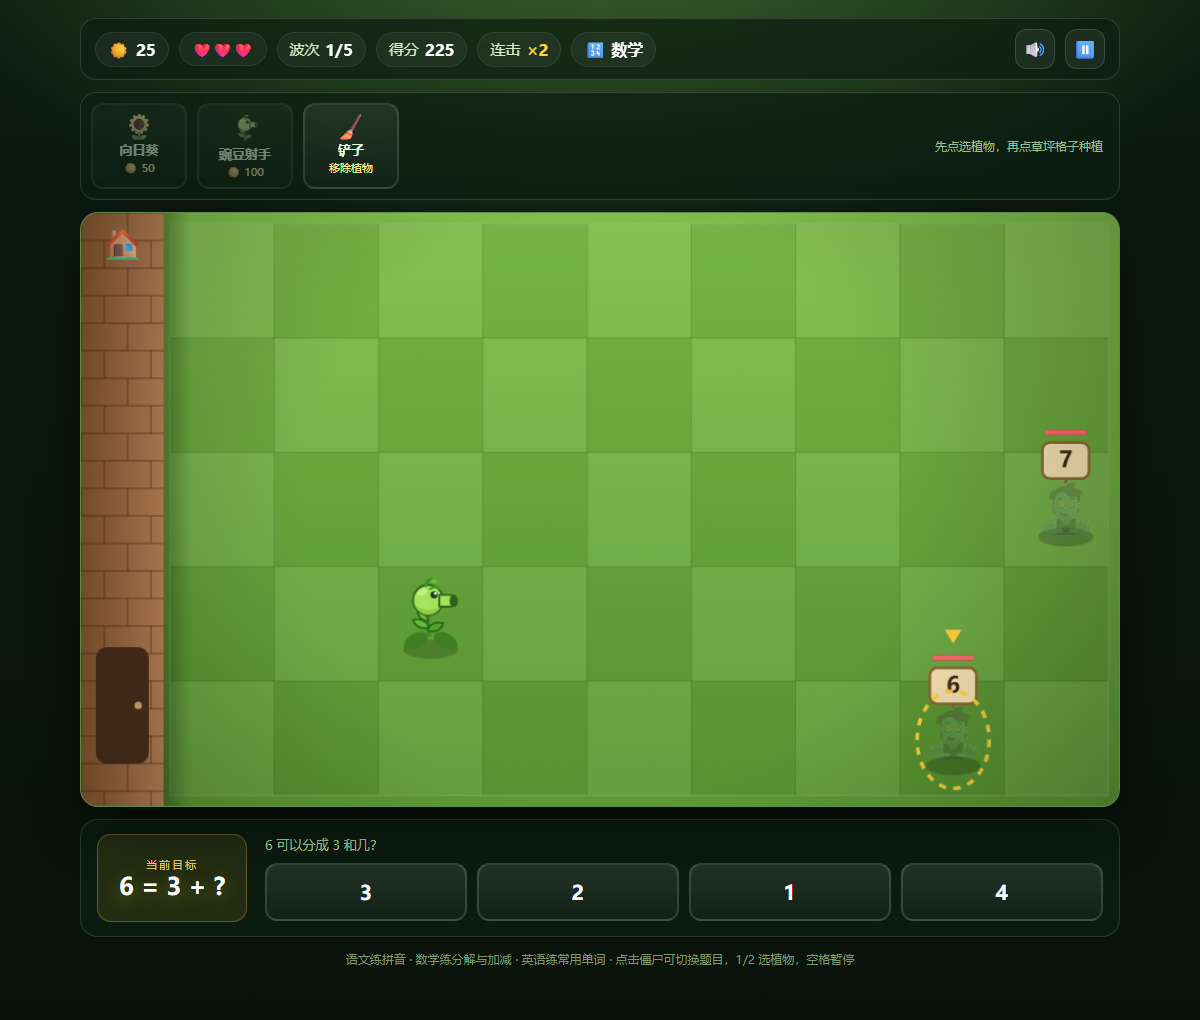
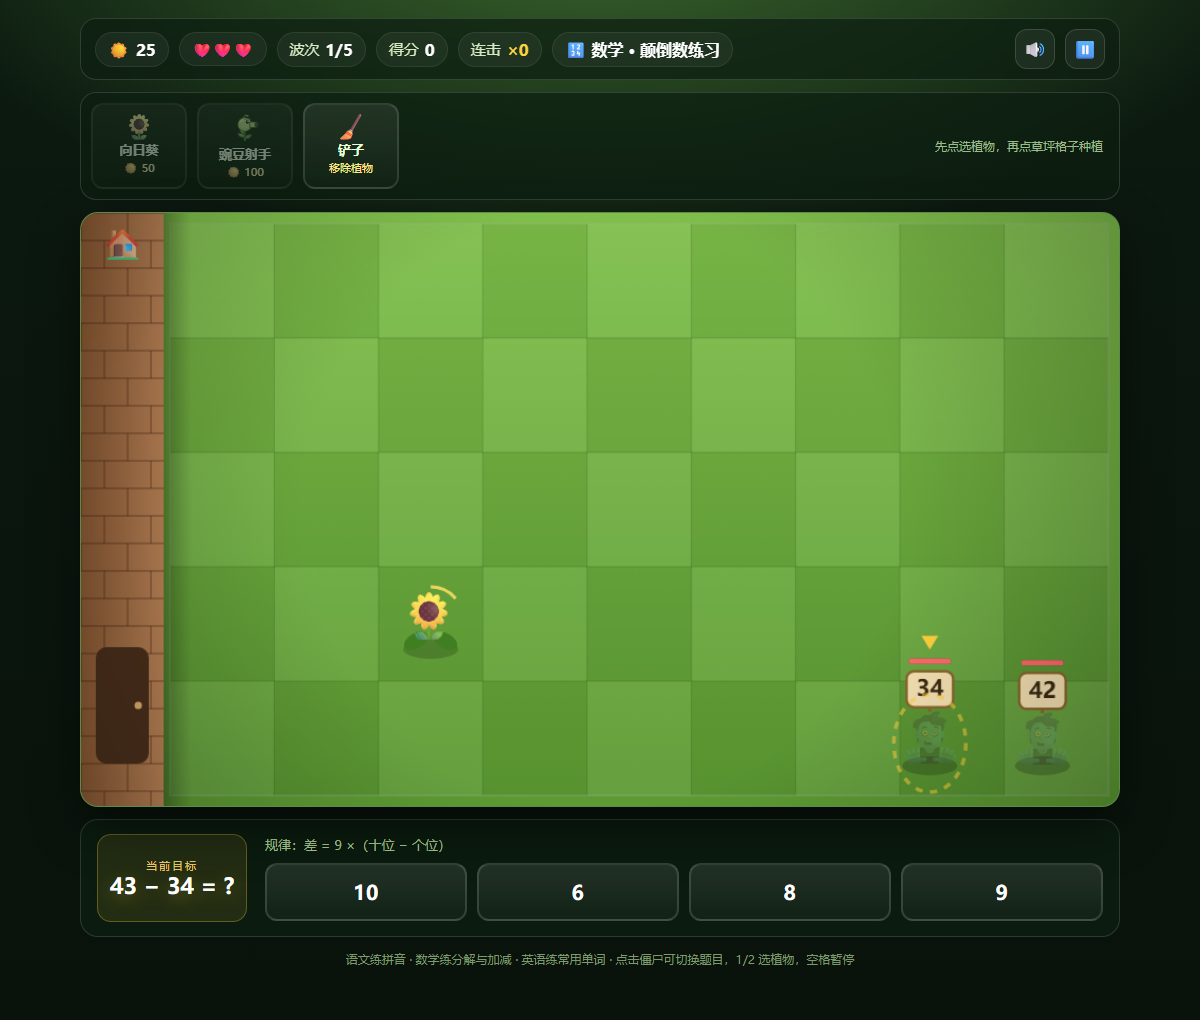
feat: 数学新增常规练习与颠倒数练习
- 选择数学后先选练习方式
- 颠倒数练习按两位数/三位数颠倒后练习和与差
- 题目附带 9/11/99/101 规律提示
- 更新 README 与模式选择截图

diff --git a/public/game.js b/public/game.js
@@ -35,8 +35,8 @@
     math: {
       name: '数学',
       icon: '🔢',
-      desc: '分解与加减法',
-      stages: ['1-9 的分解', '10 以内加减法', '20 以内加减法'],
+      desc: '常规练习 · 颠倒数练习',
+      stages: ['1-9 分解', '10 以内加减', '20 以内加减', '颠倒和差'],
       winText: '口算小达人！',
     },
     english: {
@@ -68,6 +68,17 @@
     { char: '星', pinyin: 'xīng' }, { char: '龙', pinyin: 'lóng' },
     { char: '红', pinyin: 'hóng' }, { char: '中', pinyin: 'zhōng' },
   ];
+
+  const MATH_MODES = {
+    normal: {
+      name: '常规练习',
+      stages: ['1-9 的分解', '10 以内加减法', '20 以内加减法'],
+    },
+    inverse: {
+      name: '颠倒数练习',
+      stages: ['两位数颠倒和与差', '三位数颠倒和与差', '两三位数综合挑战'],
+    },
+  };
 
   const FALLBACK_ENGLISH = [
     {
@@ -140,6 +151,7 @@
   const state = {
     phase: 'menu',
     subject: 'chinese',
+    mathMode: 'normal',
     paused: false,
     time: 0,
     sun: 75,
@@ -384,8 +396,10 @@
   }
 
   function stageNameForWave(wave) {
-    const meta = SUBJECT_META[state.subject];
-    return meta.stages[stageIndexForWave(wave)] || '';
+    const stages = state.subject === 'math'
+      ? (MATH_MODES[state.mathMode] || MATH_MODES.normal).stages
+      : SUBJECT_META[state.subject].stages;
+    return stages[stageIndexForWave(wave)] || '';
   }
 
   function poolForWave(wave) {
@@ -454,6 +468,51 @@
     };
   }
 
+  function makeReversalMathItem(stage) {
+    const threeDigits = stage === 1 || (stage === 2 && Math.random() < 0.5);
+
+    if (!threeDigits) {
+      const a = randInt(1, 9);
+      let b = randInt(1, 9);
+      while (b === a) b = randInt(1, 9);
+      const n = a * 10 + b;
+      const r = b * 10 + a;
+      const isSum = Math.random() < 0.5;
+      const hi = Math.max(n, r);
+      const lo = Math.min(n, r);
+      const answer = isSum ? n + r : hi - lo;
+      return {
+        sign: String(n),
+        prompt: isSum ? `${n} + ${r} = ?` : `${hi} − ${lo} = ?`,
+        answer: String(answer),
+        hint: isSum ? '规律：和 = 11 ×（十位 + 个位）' : '规律：差 = 9 ×（十位 − 个位）',
+        optionsMin: 0,
+        optionsMax: Math.max(100, answer + 20),
+      };
+    }
+
+    const a = randInt(1, 9);
+    let c = randInt(1, 9);
+    while (c === a) c = randInt(1, 9);
+    const b = randInt(0, 9);
+    const n = a * 100 + b * 10 + c;
+    const r = c * 100 + b * 10 + a;
+    const isSum = Math.random() < 0.5;
+    const hi = Math.max(n, r);
+    const lo = Math.min(n, r);
+    const answer = isSum ? n + r : hi - lo;
+    return {
+      sign: String(n),
+      prompt: isSum ? `${n} + ${r} = ?` : `${hi} − ${lo} = ?`,
+      answer: String(answer),
+      hint: isSum
+        ? '规律：和 = 101 ×（百位 + 个位）+ 20 × 十位'
+        : '规律：差 = 99 ×（百位 − 个位）',
+      optionsMin: 0,
+      optionsMax: Math.max(1000, answer + 50),
+    };
+  }
+
   function makeEnglishItem(stage) {
     const cat = englishCategories[Math.min(stage, englishCategories.length - 1)] || englishCategories[0];
     const item = pick(cat.words);
@@ -461,7 +520,9 @@
   }
 
   function makeItemForStage(stage) {
-    if (state.subject === 'math') return makeMathItem(stage);
+    if (state.subject === 'math') {
+      return state.mathMode === 'inverse' ? makeReversalMathItem(stage) : makeMathItem(stage);
+    }
     if (state.subject === 'english') return makeEnglishItem(stage);
     const pool = wordsByLevel[stage + 1];
     return { ...pick(pool && pool.length ? pool : words), stage };
@@ -559,7 +620,7 @@
     quizPanel.classList.remove('idle');
     quizChar.textContent = q.prompt;
     const len = [...q.prompt].length;
-    quizChar.style.fontSize = len > 8 ? '24px' : len > 5 ? '28px' : len > 3 ? '36px' : '';
+    quizChar.style.fontSize = len > 12 ? '20px' : len > 9 ? '22px' : len > 7 ? '24px' : len > 5 ? '28px' : len > 3 ? '36px' : '';
     quizHint.textContent = q.hint;
     quizOptions.innerHTML = '';
     q.options.forEach((opt) => {
@@ -1371,7 +1432,11 @@
     hudScore.textContent = String(state.score);
     hudCombo.textContent = `×${state.combo}`;
     const meta = SUBJECT_META[state.subject] || SUBJECT_META.chinese;
-    if (hudSubject) hudSubject.textContent = `${meta.icon} ${meta.name}`;
+    let subjectLabel = `${meta.icon} ${meta.name}`;
+    if (state.subject === 'math') {
+      subjectLabel += ` · ${(MATH_MODES[state.mathMode] || MATH_MODES.normal).name}`;
+    }
+    if (hudSubject) hudSubject.textContent = subjectLabel;
 
     const seeds = document.querySelectorAll('.seed');
     for (let i = 0; i < seeds.length; i += 1) {
@@ -1436,13 +1501,45 @@
       <p class="best">历史最高分：<b>${bestScore}</b></p>
     `);
     overlayCard.querySelectorAll('.subject-card').forEach((btn) => {
-      btn.addEventListener('click', () => startGame(btn.dataset.subject));
+      btn.addEventListener('click', () => {
+        if (btn.dataset.subject === 'math') showMathMenu();
+        else startGame(btn.dataset.subject);
+      });
     });
   }
 
-  function startGame(subject) {
+  function showMathMenu() {
+    state.phase = 'menu';
+    showOverlay(`
+      <h2>🔢 数学 · 选择练习方式</h2>
+      <p>两种模式都是 5 波，答对题目即可消灭僵尸</p>
+      <div class="subject-grid mode-grid">
+        <button class="subject-card" data-mode="normal" type="button">
+          <span class="subject-icon">🧮</span>
+          <span class="subject-name">常规练习</span>
+          <span class="subject-desc">按数域循序渐进</span>
+          <span class="subject-stages">1-9 分解 · 10 以内加减 · 20 以内加减</span>
+        </button>
+        <button class="subject-card" data-mode="inverse" type="button">
+          <span class="subject-icon">🔄</span>
+          <span class="subject-name">颠倒数练习</span>
+          <span class="subject-desc">两位数、三位数颠倒后的和与差</span>
+          <span class="subject-stages">52 − 25 = 27 · 52 + 25 = 77 · 521 ± 125</span>
+        </button>
+      </div>
+      <button class="btn-ghost" id="btn-back-subjects" type="button">返回科目选择</button>
+    `);
+    overlayCard.querySelectorAll('.mode-grid .subject-card').forEach((btn) => {
+      btn.addEventListener('click', () => startGame('math', btn.dataset.mode));
+    });
+    const back = document.getElementById('btn-back-subjects');
+    if (back) back.addEventListener('click', showMenu);
+  }
+
+  function startGame(subject, mode) {
     AudioFX.init();
     state.subject = SUBJECT_META[subject] ? subject : state.subject;
+    if (MATH_MODES[mode]) state.mathMode = mode;
     Object.assign(state, {
       phase: 'playing',
       paused: false,
@@ -1515,10 +1612,13 @@
     state.questionLocked = false;
     renderQuiz();
     AudioFX.win();
+    const winText = state.subject === 'math' && state.mathMode === 'inverse'
+      ? '颠倒数小达人！'
+      : SUBJECT_META[state.subject].winText;
     showOverlay(`
       <h2>🎉 你守住了草坪！</h2>
       <p>本局得分 <b style="color:#ffd23f">${state.score}</b> · 最高连击 ×${state.maxCombo}</p>
-      <p>成功挡下全部 ${TOTAL_WAVES} 波僵尸，${SUBJECT_META[state.subject].winText}</p>
+      <p>成功挡下全部 ${TOTAL_WAVES} 波僵尸，${winText}</p>
       <div class="overlay-actions">
         <button class="btn-primary" id="btn-again" type="button">再玩一次</button>
         <button class="btn-ghost" id="btn-menu" type="button">换科目</button>

diff --git a/public/style.css b/public/style.css
@@ -315,6 +315,18 @@ body {
   transition: transform 0.12s, border-color 0.12s, box-shadow 0.12s;
 }
 
+.mode-grid {
+  grid-template-columns: repeat(2, 1fr);
+}
+
+.mode-grid .subject-card {
+  padding: 20px 14px;
+}
+
+#btn-back-subjects {
+  margin-top: 16px;
+}
+
 .subject-card:hover {
   transform: translateY(-3px);
   border-color: rgba(165, 214, 63, 0.7);

diff --git a/README.md b/README.md
@@ -10,10 +10,11 @@
 
 <p align="center">
   <img src="docs/screenshots/02-chinese.png" alt="语文：拼音练习" width="410" />
-  <img src="docs/screenshots/03-math.png" alt="数学：分解与加减法" width="410" />
+  <img src="docs/screenshots/05-math-modes.png" alt="数学：选择常规练习或颠倒数练习" width="410" />
 </p>
 
 <p align="center">
+  <img src="docs/screenshots/03-math.png" alt="数学：颠倒数练习" width="410" />
   <img src="docs/screenshots/04-english.png" alt="英语：水果与动物单词" width="410" />
 </p>
 
@@ -33,10 +34,15 @@
 | 科目 | 练习内容 | 关卡安排 |
 | --- | --- | --- |
 | 📖 语文 | 拼音 | 第 1-2 波：单韵母基础字 · 第 3-4 波：复韵母生活字 · 第 5 波：整体认读挑战字 |
-| 🔢 数学 | 分解与加减法 | 第 1-2 波：1-9 的分解 · 第 3-4 波：10 以内加减法 · 第 5 波：20 以内加减法 |
+| 🔢 数学 | 常规练习 / 颠倒数练习 | 常规：1-9 分解 → 10 以内加减 → 20 以内加减；颠倒数：两位数颠倒和差 → 三位数颠倒和差 → 综合挑战 |
 | 🔤 英语 | 生活常用单词 | 第 1-3 波：水果类 · 第 4-5 波：动物类 |
 
 语文共 90 个常用字；英语词库含 15 个水果、16 个动物。
+
+颠倒数练习的规律提示：
+
+- 两位数：差 = 9 ×（十位 − 个位），和 = 11 ×（十位 + 个位）
+- 三位数：差 = 99 ×（百位 − 个位），和 = 101 ×（百位 + 个位）+ 20 × 十位
 
 ## 玩法
 
@@ -59,6 +65,7 @@
 ## 特性
 
 - 三科题库：拼音 90 字、数学按数域自动出题、英语 31 个生活单词
+- 数学支持常规练习与颠倒数练习，两位数/三位数颠倒和差随机出题
 - 数学题程序化生成，同一关每次不重样
 - 僵尸与植物碰撞会同归于尽，摆植物也是一次防守决策
 - 连击加成：答得越快越准，单题得分越高
@@ -162,7 +169,7 @@ npx electron-builder --win portable --config.directories.output=../pvz-build
 }
 ```
 
-数学题不需要词库，由 `game.js` 按关卡数域随机生成。
+数学题不需要词库，由 `game.js` 按关卡与练习模式随机生成（常规数域题 / 颠倒数和差题）。
 
 ## 技术栈
 
